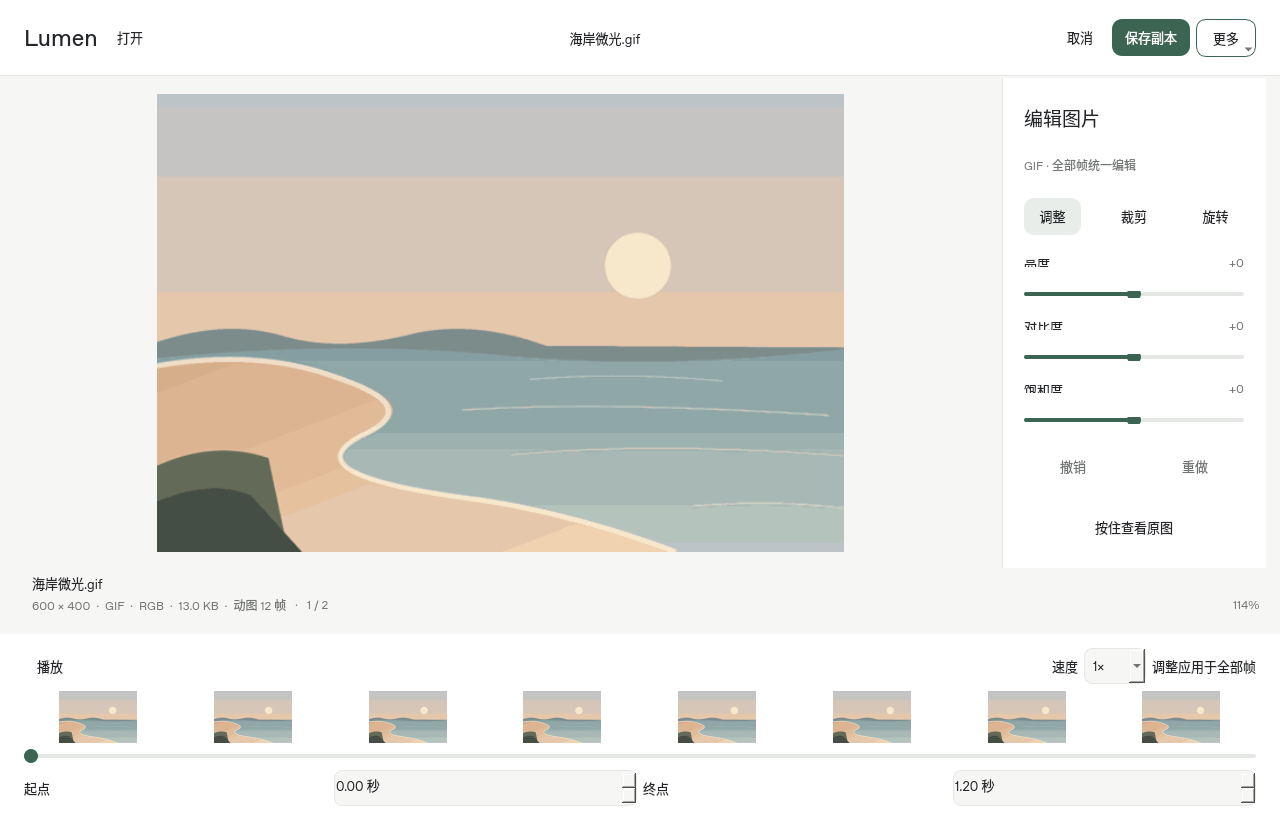
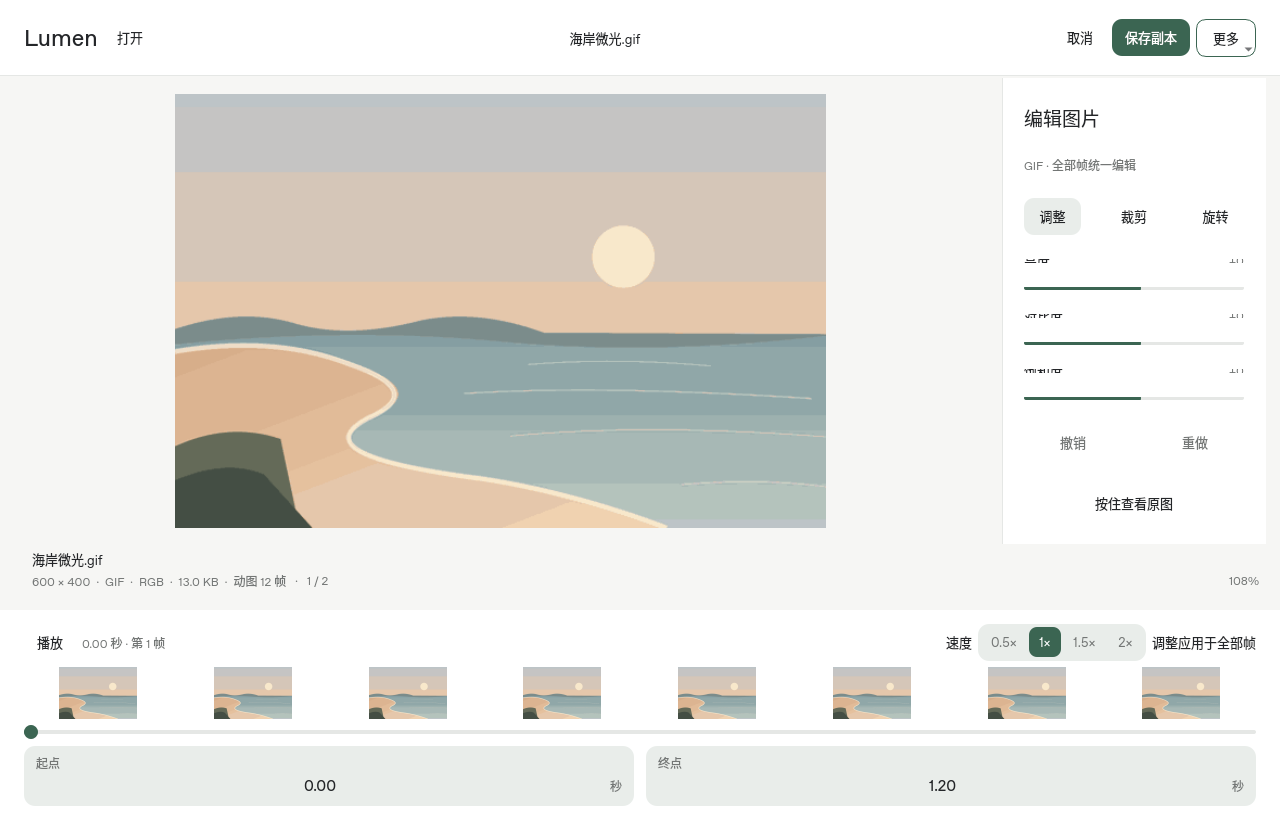
Modernize GIF speed and trim controls

diff --git a/lumenview/modern.py b/lumenview/modern.py
@@ -8,7 +8,7 @@ from pathlib import Path
 from PySide6.QtCore import QObject, QRunnable, QThreadPool, QTimer, Qt, Signal
 from PySide6.QtGui import QAction, QIcon, QKeySequence, QPixmap
 from PySide6.QtWidgets import (
-    QApplication, QComboBox, QDialog, QDoubleSpinBox, QFileDialog, QFormLayout,
+    QApplication, QButtonGroup, QComboBox, QDialog, QFileDialog, QFormLayout,
     QFrame, QHBoxLayout, QLabel, QLineEdit, QMessageBox, QPushButton, QSlider,
     QSizePolicy, QStackedWidget, QVBoxLayout, QWidget,
 )
@@ -16,6 +16,101 @@ from PySide6.QtWidgets import (
 from . import editing, icons, theme
 from .decoders import Frame, Loaded
 from .window import MainWindow as ViewerWindow
+
+
+class SpeedSelector(QFrame):
+    """Compact segmented speed control without native combo-box chrome."""
+
+    currentIndexChanged = Signal(int)
+
+    def __init__(self, parent=None):
+        super().__init__(parent)
+        self.setObjectName("SegmentedControl")
+        self.setAccessibleName("GIF 播放速度")
+        layout = QHBoxLayout(self)
+        layout.setContentsMargins(3, 3, 3, 3)
+        layout.setSpacing(2)
+        self._values = (.5, 1, 1.5, 2)
+        self._buttons = []
+        self._group = QButtonGroup(self)
+        self._group.setExclusive(True)
+        for index, value in enumerate(self._values):
+            item = QPushButton(f"{value:g}×", self)
+            item.setObjectName("SegmentedButton")
+            item.setCheckable(True)
+            item.setAccessibleName(f"{value:g} 倍速")
+            self._group.addButton(item, index)
+            layout.addWidget(item)
+            self._buttons.append(item)
+        self._group.idClicked.connect(self._select)
+        self._index = 1
+        self._buttons[self._index].setChecked(True)
+
+    def _select(self, index):
+        if index != self._index:
+            self._index = index
+            self.currentIndexChanged.emit(index)
+
+    def currentData(self):
+        return self._values[self._index]
+
+    def findData(self, value):
+        try:
+            return self._values.index(value)
+        except ValueError:
+            return -1
+
+    def setCurrentIndex(self, index):
+        if not 0 <= index < len(self._buttons):
+            return
+        changed = index != self._index
+        self._index = index
+        self._buttons[index].setChecked(True)
+        if changed:
+            self.currentIndexChanged.emit(index)
+
+
+class TimeInput(QLineEdit):
+    """Keyboard-first numeric field with no native stepper chrome."""
+
+    valueChanged = Signal(float)
+
+    def __init__(self, accessible_name, parent=None):
+        super().__init__(parent)
+        self.setObjectName("TimeInput")
+        self.setAccessibleName(accessible_name)
+        self.setAlignment(Qt.AlignmentFlag.AlignCenter)
+        self._minimum = 0.0
+        self._maximum = 0.0
+        self._value = 0.0
+        self.setText("0.00")
+        self.editingFinished.connect(self._commit)
+
+    def setRange(self, minimum, maximum):
+        self._minimum, self._maximum = float(minimum), float(maximum)
+        self.setValue(self._value)
+
+    def setValue(self, value):
+        value = max(self._minimum, min(self._maximum, float(value)))
+        changed = value != self._value
+        self._value = value
+        self.setText(f"{value:.2f}")
+        if changed:
+            self.valueChanged.emit(value)
+
+    def value(self):
+        return self._value
+
+    def _commit(self):
+        try:
+            value = float(self.text().strip().replace(",", "."))
+        except ValueError:
+            value = self._value
+        self.setValue(value)
+
+    def focusInEvent(self, event):
+        super().focusInEvent(event)
+        QTimer.singleShot(0, self.selectAll)
 
 
 class WorkerSignals(QObject):
@@ -284,10 +379,7 @@ class MainWindow(ViewerWindow):
         row.addWidget(self.time_label)
         row.addStretch()
         row.addWidget(QLabel("速度"))
-        self.speed = QComboBox()
-        for v in (.5, 1, 1.5, 2):
-            self.speed.addItem(f"{v:g}×", v)
-        self.speed.setCurrentIndex(1)
+        self.speed = SpeedSelector()
         self.speed.currentIndexChanged.connect(lambda _: self.change_edit(speed=self.speed.currentData()))
         row.addWidget(self.speed)
         row.addWidget(QLabel("调整应用于全部帧"))
@@ -299,14 +391,26 @@ class MainWindow(ViewerWindow):
         self.scrub.valueChanged.connect(self.seek_frame)
         layout.addWidget(self.scrub)
         trim = QHBoxLayout()
-        self.trim_start, self.trim_end = QDoubleSpinBox(), QDoubleSpinBox()
+        trim.setSpacing(12)
+        self.trim_start = TimeInput("片段起点")
+        self.trim_end = TimeInput("片段终点")
         for name, spin in (("起点", self.trim_start), ("终点", self.trim_end)):
-            trim.addWidget(QLabel(name))
-            spin.setDecimals(2)
-            spin.setSingleStep(.1)
-            spin.setSuffix(" 秒")
-            spin.setAccessibleName("片段" + name)
-            trim.addWidget(spin)
+            field = QFrame()
+            field.setObjectName("TimeField")
+            field_layout = QVBoxLayout(field)
+            field_layout.setContentsMargins(12, 8, 12, 8)
+            field_layout.setSpacing(2)
+            label = QLabel(name)
+            label.setObjectName("TimeFieldLabel")
+            field_layout.addWidget(label)
+            value_row = QHBoxLayout()
+            value_row.setSpacing(4)
+            value_row.addWidget(spin, 1)
+            unit = QLabel("秒")
+            unit.setObjectName("TimeFieldUnit")
+            value_row.addWidget(unit)
+            field_layout.addLayout(value_row)
+            trim.addWidget(field, 1)
         self.trim_start.valueChanged.connect(lambda v: self._trim_changed(True, v))
         self.trim_end.valueChanged.connect(lambda v: self._trim_changed(False, v))
         layout.addLayout(trim)

diff --git a/lumenview/theme.py b/lumenview/theme.py
@@ -43,6 +43,16 @@ def apply_theme(app, dark=None):
     QListWidget::item {{ padding: 6px; margin: 2px; border-radius: 8px; }}
     QListWidget::item:selected {{ background: {SURFACE_HI}; }}
     QComboBox, QLineEdit, QSpinBox, QDoubleSpinBox {{ background: {BG}; border: 1px solid {BORDER}; border-radius: 8px; padding: 8px; min-height: 18px; }}
+    QFrame#SegmentedControl {{ background: {SURFACE_HI}; border: none; border-radius: 11px; }}
+    QPushButton#SegmentedButton {{ color: {MUTED}; border: none; border-radius: 8px; padding: 6px 10px; min-height: 18px; }}
+    QPushButton#SegmentedButton:hover {{ background: {BG}; color: {TEXT}; }}
+    QPushButton#SegmentedButton:checked {{ background: {ACCENT}; color: {ACCENT_TEXT}; }}
+    QFrame#TimeField {{ background: {BG}; border: 1px solid {BORDER}; border-radius: 11px; }}
+    QLabel#TimeFieldLabel {{ color: {MUTED}; font-size: 8.5pt; }}
+    QFrame#TimeField {{ background: {SURFACE_HI}; border: none; border-radius: 11px; }}
+    QLabel#TimeFieldLabel, QLabel#TimeFieldUnit {{ color: {MUTED}; font-size: 9pt; }}
+    QLineEdit#TimeInput {{ background: transparent; border: none; border-radius: 0; padding: 0; min-height: 24px; font-size: 11pt; font-weight: 500; }}
+    QLineEdit#TimeInput:focus {{ color: {ACCENT}; }}
     QSlider::groove:horizontal {{ height: 4px; background: {BORDER}; border-radius: 2px; }}
     QSlider::sub-page:horizontal {{ background: {ACCENT}; border-radius: 2px; }}
     QSlider::handle:horizontal {{ background: {ACCENT}; width: 14px; margin: -5px 0; border-radius: 7px; }}

diff --git a/tests/test_modern.py b/tests/test_modern.py
@@ -55,6 +55,8 @@ def test_edit_undo_gif_trim_export_and_cancel(app, window, tmp_path, monkeypatch
     assert w.history.state.start_ms == 120
     assert w.history.state.end_ms == 480
     assert w.history.state.speed == 2
+    assert w.trim_start.text() == "0.12"
+    assert w.speed._buttons[3].isChecked()
     w.toggle_edit_playback()
     first = w._frame
     wait(app, lambda: w._frame != first)
